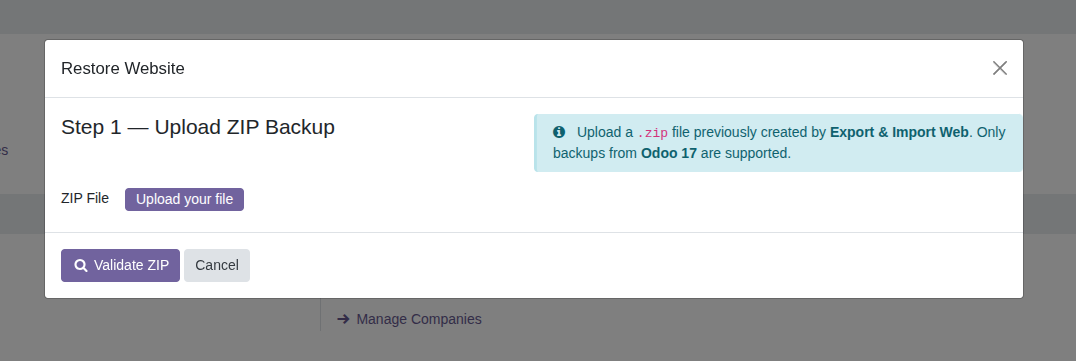
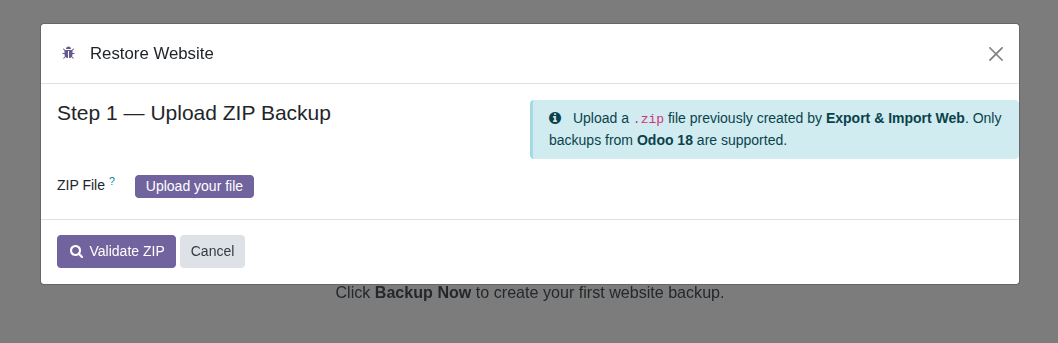
chore: sync export_import_web to 18.0

Changed region(s): [[0.0312, 0.0583, 0.9669, 0.8455], [0.3119, 0.8163, 0.6862, 0.9038]]

diff --git a/export_import_web/static/description/index.html b/export_import_web/static/description/index.html
@@ -15,7 +15,7 @@
             <div class="d-flex flex-wrap align-items-center gap-2 mb-2">
                 <h2 class="mb-0 fw-bold" style="color: #212529;">Export &amp; Import Web</h2>
                 <span class="badge rounded-pill" style="background-color: #714B67; color: #fff; font-size: .8rem; padding: 6px 12px;">
-                    <i class="fa fa-bolt me-1"></i>Odoo 17 CE &amp; EE
+                    <i class="fa fa-bolt me-1"></i>Odoo 18 CE &amp; EE
                 </span>
                 <span class="badge rounded-pill" style="background-color: #059669; color: #fff; font-size: .8rem; padding: 6px 12px;">
                     <i class="fa fa-archive me-1"></i>ZIP Backup
@@ -239,7 +239,7 @@
                          style="width: 56px; height: 56px; background: #0284C7; color: #fff; font-size: 1.4rem; font-weight: bold;">3</div>
                     <h6 class="fw-bold">Restore Anywhere</h6>
                     <p class="text-muted small mb-0">
-                        On any Odoo 17 instance: open Restore wizard, upload ZIP,
+                        On any Odoo 18 instance: open Restore wizard, upload ZIP,
                         preview content, map websites, click <strong>Restore</strong>.
                     </p>
                 </div>
@@ -302,9 +302,9 @@
             <i class="fa fa-info-circle me-2"></i>Requirements &amp; Limitations
         </h4>
         <ul class="mb-0" style="color: #78350F;">
-            <li><strong>Odoo 17.0</strong> — Community or Enterprise (self-hosted or Odoo.sh)</li>
+            <li><strong>Odoo 18.0</strong> — Community or Enterprise (self-hosted or Odoo.sh)</li>
             <li>No extra Python packages required — uses Odoo's standard library only</li>
-            <li>Restore only between instances running the <strong>same Odoo version</strong> (17.0)</li>
+            <li>Restore only between instances running the <strong>same Odoo version</strong> (18.0)</li>
             <li>No scheduled backups in v1.0 — manual only; ZIP is downloaded to your browser</li>
             <li>Blog / Events / Shop content requires the respective Odoo modules on both source and target</li>
         </ul>
@@ -350,7 +350,7 @@
         </div>
         <div class="small">
             <span class="badge bg-secondary">On-Premise Only</span>
-            <span class="badge bg-secondary ms-1">Odoo 17 CE &amp; EE</span>
+            <span class="badge bg-secondary ms-1">Odoo 18 CE &amp; EE</span>
             <span class="badge bg-primary ms-1">NIITS Inovasi Teknologi</span>
         </div>
     </div>

diff --git a/export_import_web/models/exporter.py b/export_import_web/models/exporter.py
@@ -76,8 +76,6 @@ class WebsiteExporter(models.AbstractModel):
         if not websites:
             raise UserError(_('No websites selected for backup.'))
 
-        self._module_cache = {}  # reset per-export module check cache
-
         website_data = []
         all_attachment_uids = {}  # uid → attachment record (shared across websites)
 
@@ -576,15 +574,11 @@ class WebsiteExporter(models.AbstractModel):
     # ------------------------------------------------------------------ #
     @api.model
     def _module_installed(self, module_name):
-        cache = getattr(self, '_module_cache', {})
-        if module_name not in cache:
-            cache[module_name] = bool(
-                self.env['ir.module.module'].sudo().search(
-                    [('name', '=', module_name), ('state', '=', 'installed')], limit=1
-                )
+        return bool(
+            self.env['ir.module.module'].sudo().search(
+                [('name', '=', module_name), ('state', '=', 'installed')], limit=1
             )
-            self._module_cache = cache
-        return cache[module_name]
+        )
 
     # ------------------------------------------------------------------ #
     # ZIP builder                                                          #
@@ -628,8 +622,8 @@ class WebsiteExporter(models.AbstractModel):
 
         return {
             'module': 'export_import_web',
-            'module_version': '17.0.1.0.0',
-            'odoo_version': odoo.release.version[:4],  # '17.0'
+            'module_version': '18.0.1.0.0',
+            'odoo_version': odoo.release.version[:4],  # '18.0'
             'websites': website_list,
             'installed_modules': installed_mods,
             'counts': counts,

diff --git a/export_import_web/models/backup.py b/export_import_web/models/backup.py
@@ -153,18 +153,18 @@ class ExportImportWebBackup(models.Model):
         """Schedule backup as a cron one-shot job and return immediately."""
         self.ensure_one()
         self.write({'state': 'running'})
-        self.env['ir.cron'].sudo().create({
+        cron = self.env['ir.cron'].sudo().create({
             'name': f'EIW Backup #{self.id}: {self.name}',
             'model_id': self.env['ir.model'].sudo().search(
                 [('model', '=', self._name)], limit=1
             ).id,
             'state': 'code',
             'code': f"model.browse({self.id})._run_backup_job()",
-            'numbercall': 1,
             'nextcall': fields.Datetime.now(),
             'active': True,
             'priority': 5,
         })
+        cron._trigger()
         return {
             'type': 'ir.actions.client',
             'tag': 'display_notification',
@@ -213,6 +213,13 @@ class ExportImportWebBackup(models.Model):
             self.write({'state': 'error', 'result_log': str(exc)})
             self.message_post(body=_('❌ Backup failed: %s') % str(exc))
             _logger.exception('EIW backup #%s failed', self.id)
+        finally:
+            cron = self.env['ir.cron'].sudo().search([
+                ('model_name', '=', self._name),
+                ('code', '=', f"model.browse({self.id})._run_backup_job()"),
+            ])
+            if cron:
+                cron.unlink()
 
     # ------------------------------------------------------------------ #
     # Retention                                                            #

diff --git a/export_import_web/__manifest__.py b/export_import_web/__manifest__.py
@@ -3,7 +3,7 @@
 # Author: Arif N Ramadhan
 {
     'name': 'Export & Import Web',
-    'version': '17.0.1.0.0',
+    'version': '18.0.1.0.0',
     'summary': 'Backup & restore your Odoo website (pages, menus, media, blog, events, shop) via ZIP',
     'description': """
 Export & Import Web
@@ -13,7 +13,7 @@ Backup and restore your entire Odoo website with a single ZIP file.
 Export pages, menus, custom views, media attachments, and optionally
 blog posts, events, and eCommerce catalog content.
 
-Restore to the same database or another Odoo 17 instance with automatic
+Restore to the same database or another Odoo 18 instance with automatic
 ID remapping, URL rewriting, safety snapshots, and full rollback on failure.
 
 Features
@@ -29,7 +29,7 @@ Features
 
 Limitations
 -----------
-- Restore only between instances running the same Odoo version (17.0)
+- Restore only between instances running the same Odoo version (18.0)
 - No scheduled backups (manual only)
 - No external storage (SFTP, S3) — ZIP is downloaded to your browser
     """,

diff --git a/export_import_web/models/importer.py b/export_import_web/models/importer.py
@@ -438,6 +438,16 @@ class WebsiteImporter(models.AbstractModel):
                 view = self.env['ir.ui.view'].search(
                     [('key', '=', view_key), ('website_id', '=', website.id)], limit=1
                 )
+                if not view:
+                    # Fallback to global / template view
+                    view = self.env['ir.ui.view'].search(
+                        [('key', '=', view_key), ('website_id', '=', False)], limit=1
+                    )
+                if not view:
+                    # Fallback to any view with this key
+                    view = self.env['ir.ui.view'].search(
+                        [('key', '=', view_key)], limit=1
+                    )
                 if view:
                     vals['view_id'] = view.id
 

diff --git a/export_import_web/README.md b/export_import_web/README.md
@@ -1,14 +1,14 @@
-# Export & Import Web for Odoo 17
+# Export & Import Web for Odoo 18
 
-[![Odoo Version](https://img.shields.io/badge/Odoo-17.0-875A7B.svg?style=flat-square)](https://www.odoo.com)
-[![License](https://img.shields.io/badge/License-OPL--1-blue.svg?style=flat-square)](https://www.odoo.com/documentation/17.0/legal/licenses.html)
+[![Odoo Version](https://img.shields.io/badge/Odoo-18.0-875A7B.svg?style=flat-square)](https://www.odoo.com)
+[![License](https://img.shields.io/badge/License-OPL--1-blue.svg?style=flat-square)](https://www.odoo.com/documentation/18.0/legal/licenses.html)
 [![Price](https://img.shields.io/badge/Price-USD%2027.50-green.svg?style=flat-square)](https://apps.odoo.com)
 [![CE+EE](https://img.shields.io/badge/Edition-CE%20%26%20EE-purple.svg?style=flat-square)](https://www.odoo.com)
 
 **Backup and restore your entire Odoo website with a single ZIP file.**
 
 Export pages, menus, custom views, media attachments, and optionally blog posts, events,
-and eCommerce catalog content. Restore to the same database or another Odoo 17 instance
+and eCommerce catalog content. Restore to the same database or another Odoo 18 instance
 with automatic ID remapping, URL rewriting, safety snapshots, and full rollback on failure.
 
 ---
@@ -32,14 +32,14 @@ with automatic ID remapping, URL rewriting, safety snapshots, and full rollback 
 
 | Feature | Details |
 |---|---|
-| Odoo version | 17.0 |
+| Odoo version | 18.0 |
 | Editions | Community & Enterprise |
 | Hosting | Self-hosted, Odoo.sh |
 | Python | 3.10+ |
 | PostgreSQL | 12+ |
 | Extra packages | None required |
 
-> ⚠ Restore only between instances running the **same Odoo version** (17.0).
+> ⚠ Restore only between instances running the **same Odoo version** (18.0).
 
 ---
 
@@ -100,7 +100,7 @@ Go to **Website → Export & Import Web → Configuration** (or **Settings → W
 
 ## ⚠ Limitations (v1.0)
 
-- Restore only between Odoo **17.0** instances (same version required)
+- Restore only between Odoo **18.0** instances (same version required)
 - No scheduled backups — manual only
 - No external storage (S3, SFTP) — ZIP downloaded to browser
 - Transactional data not included: orders, event registrations, blog comments, stock
